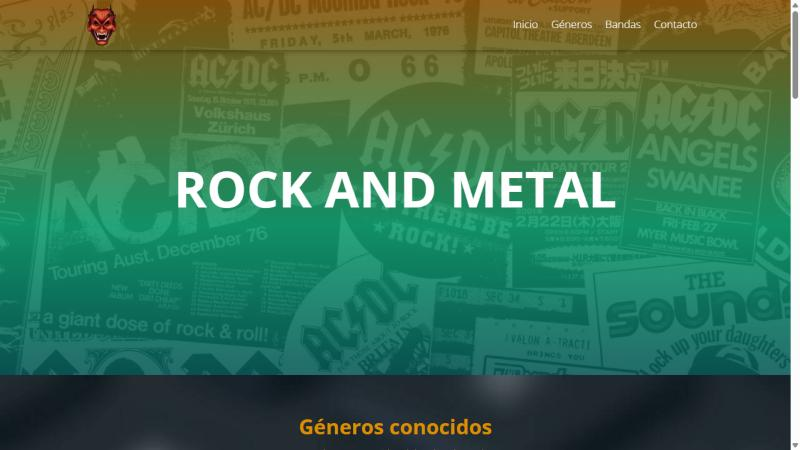
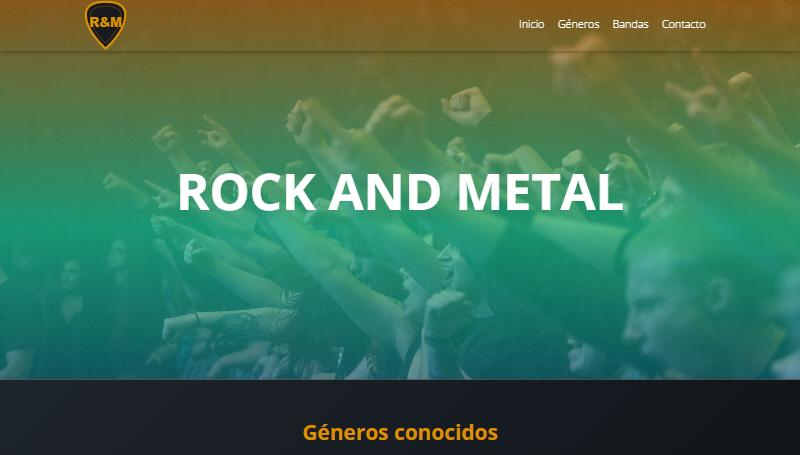
docs(readme): agregar créditos de todas las imágenes
Cada foto de la galería y el fondo del encabezado tienen su autor, enlace y licencia. Las capturas muestran el nuevo logo y el nuevo fondo.

diff --git a/README.md b/README.md
@@ -76,10 +76,27 @@ No necesita instalación ni dependencias.
 
 ## Créditos de imágenes
 
-Fotos de Wikimedia Commons, redimensionadas para la galería:
+Todas las fotos son de Wikimedia Commons, con licencia Creative Commons, y están redimensionadas para el sitio.
 
+**Galería**
+
+- `img/iron-maiden.jpeg`: [Iron Maiden – Tons of Rock 2026](https://commons.wikimedia.org/wiki/File:Iron_Maiden_%E2%80%93_Tons_of_Rock_2026.jpg), por Birgit Fostervold, licencia [CC BY-SA 4.0](https://creativecommons.org/licenses/by-sa/4.0/).
+- `img/black-sabbath.jpeg`: [Black Sabbath (2013)](https://commons.wikimedia.org/wiki/File:Black_Sabbath_(2013).jpg), por Robson Batista, licencia [CC BY 2.0](https://creativecommons.org/licenses/by/2.0/).
+- `img/judas-priest.jpeg`: [Judas Priest - Wacken Open Air 2018 01](https://commons.wikimedia.org/wiki/File:Judas_Priest_-_Wacken_Open_Air_2018_01.jpg), por Frank Schwichtenberg, licencia [CC BY-SA 4.0](https://creativecommons.org/licenses/by-sa/4.0/).
+- `img/ac-dc.jpeg`: [AC DC at London's Olympic Stadium](https://commons.wikimedia.org/wiki/File:AC_DC_at_London%27s_Olympic_Stadium.jpg), por Egghead06, licencia [CC BY-SA 4.0](https://creativecommons.org/licenses/by-sa/4.0/).
+- `img/guns-n-roses.jpeg`: [GNR London Stadium 2017 3 (cropped)](https://commons.wikimedia.org/wiki/File:GNR_London_Stadium_2017_3_(cropped).jpg), por Raph_PH, licencia [CC BY 2.0](https://creativecommons.org/licenses/by/2.0/).
+- `img/led-zeppelin.jpeg`: [LedZeppelinChicago75](https://commons.wikimedia.org/wiki/File:LedZeppelinChicago75.jpg), por more19562003, licencia [CC BY 2.0](https://creativecommons.org/licenses/by/2.0/).
+- `img/slayer.jpeg`: [Slayer - band - live 2006](https://commons.wikimedia.org/wiki/File:Slayer_-_band_-_live_2006.jpg), por Gabriele (recorte de JD), licencia [CC BY 2.0](https://creativecommons.org/licenses/by/2.0/).
+- `img/testament.jpeg`: [Testament band](https://commons.wikimedia.org/wiki/File:Testament_band.jpg), por Rockman, licencia [CC BY 3.0](https://creativecommons.org/licenses/by/3.0/).
+- `img/death.jpeg`: [Death Mexico 06-89](https://commons.wikimedia.org/wiki/File:Death_Mexico_06-89.jpg), por A Sniper, licencia [CC BY-SA 3.0](https://creativecommons.org/licenses/by-sa/3.0/).
 - `img/cannibal-corpse.jpg`: [CannibalCorpse](https://commons.wikimedia.org/wiki/File:CannibalCorpse.jpg), por Chris Buresh, licencia [CC BY 2.0](https://creativecommons.org/licenses/by/2.0/).
 - `img/morbid-angel.jpg`: [Morbid Angel - Geiselwind 2012](https://commons.wikimedia.org/wiki/File:Morbid_Angel_-_Geiselwind_2012.jpg), por Voltago, licencia [CC BY 3.0](https://creativecommons.org/licenses/by/3.0/).
+
+**Fondo del encabezado**
+
+- `img/fondo.jpg`: [Metal crowd](https://commons.wikimedia.org/wiki/File:Metal_crowd.jpg), por WanderingTrad, licencia [CC BY-SA 4.0](https://creativecommons.org/licenses/by-sa/4.0/).
+
+El logo y los degradados de fondo son de creación propia.
 
 ## Autor
 
